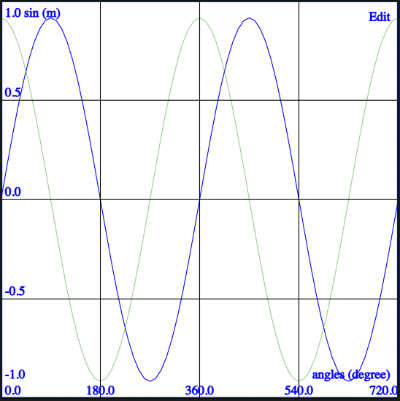
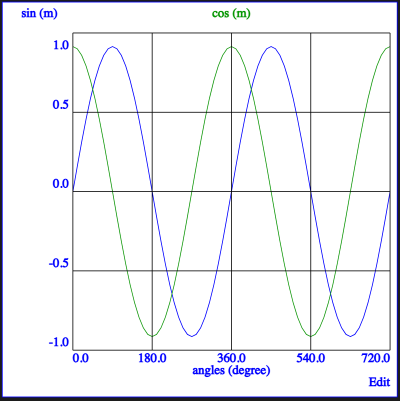
Updates to graph help

diff --git a/help/graph.html b/help/graph.html
@@ -60,10 +60,9 @@
 					together they would represent the 100 coordinate pairs of the points to be plotted.
 				</p>
 				<p>
-					When a new graph is created or a graph icon on the diagram is tapped, the information
-					view described below will be presented.  However if the graph inputs are already
-					defined, the plot will be immediately displayed.  Tap the edit button at the upper
-					right if you wish to modify the inputs.
+					When a new graph is created a view for defining the graph inputs will be displayed.
+					However if the graph inputs are already defined, the actual plot will be displayed.
+					Tap the <b>Edit</b> button at the lower right of plat to return to the input view.
 				</p>
 			</div>
 			<div id="types" class="section">
@@ -109,6 +108,11 @@
 					can have matrices, in which case each matching column will be plotted as a
 					separate line.  The X and Y matrices should have the same size.
 				</p>
+				<p>
+					The <b>X</b> array can be an array of strings in which case the <b>Y</b>
+					value will be plotted against that string value. This is mainly useful for
+					small bar charts.
+				</p>
 			</div>
 			<div id="values3d" class="subsection">
 				<h3>3D Values</h3>
@@ -136,7 +140,7 @@
 			<div id="info" class="section">
 				<h3>Information View</h3>
 				<p>
-					The information view will appear when you first create a new graph tool.
+					The input view will appear when you first create a new graph tool.
 					It allows you to define the data which will be plotted, in the form of
 					arrays for the <b>X</b>, <b>Y</b> and, if applicable, <b>Z</b> values.
 				</p>
@@ -145,11 +149,11 @@
 					to render a plot, then the plot will appear instead of the information view.
 				</p>
 				<p>
-					Tap on the <b>Edit</b> button in the upper right of the plot to see to the
-					information view.
+					Tap on the <b>Edit</b> button in the lower right of the plot to see to the
+					input view.
 				</p>
 				<p>
-					The image below is the information view for a 2D plot where two different
+					The image below is the input view for a 2D plot where two different
 					<b>Y</b> lines are plotted against the same <b>X</b> values (defined in
 					the expression <b>angles</b> as <b>0:72 * 10 degree</b>). The y lines are
 					just the sine and cosine of those X values.
@@ -183,7 +187,7 @@
 						This formula should resolve to the array of values for the axis.
 					</p>
 					<p>
-						On the plot, an axis will normally be labeled with the full formula that generates
+						On the plot, an axis will by default be labeled with the full formula that generates
 						it, but if the formula ends with a comment (i.e. a <b>'</b> character followed by
 						some text), then the label will only consist of the text following the comment
 						character.
@@ -254,9 +258,9 @@
 			<div id="plotview" class="section">
 				<h3>Plot View</h3>
 				<p>
-					When you tap the <b>Plot</b> button on the information view, the data will be
+					When you tap the <b>Plot</b> button on the input view, the data will be
 					presented in a plot view.
-					Tap the <b>Edit</b> button to return to the information view.
+					Tap the <b>Edit</b> button to return to the input view.
 				</p>
 				<p>
 					This view will also automatically be displayed when a graph icon on the diagram
@@ -276,19 +280,18 @@
 					<div id="axes2d" class="subsection">
 						<h3>2D Axes</h3>
 						<p>
-							When a plot has more than one set of <b>X</b> or </b>Y</b> values, the axis labels
-							will only represent one at a time.  If there is more than one set of <b>X</b> values,
-							a tap on the X axis label will switch to the next set or cycle back to the first if
-							the last one is currently displayed.  The <b>X</b> and <b>Y</b> axis labels will
-							change to reflect the new set.
-						</p>
-						<p>	
-							When the current <b>X</b> axis has more than one <b>Y</b> value, tapping on any Y
-							axis label will switch the <b>Y</b> axis labels to the values of the next Y line.
+							Diffenet traces are plotted in different colours and at the top of the
+							plot is a legend of the <b>Y</b> titles in the matching color.
 						</p>
 						<p>
-							The colour of the <b>Y</b> axis labels will always match the colour of the plotted
-							values that they represent and those will be bolder than other curves.
+							While ideally all X-Y lines will have the same axis values, there may be
+							times when you choose to have different values. Tapping on a legend value
+							will switch the axis values to correspond with that trace's minimum and
+							maximum setting and change the axis label colours to match the trace.
+						</p>
+						<p>
+							In addition all the other traces will be faded a bit to make the selected
+							one stand out. Tapping on the selected legend again will remove this dimming.
 						</p>
 					</div>
 					<div id="zoom2d" class="subsection">
@@ -306,20 +309,20 @@
 						<p>
 							The axis labels will adjust their values appropriately.
 						</p>
+						<p>
+							A long press on the plot will reset the zoom to its default value.
+						</p>
 					</div>
 					<div id="pan2d" class="subsection">
 						<h3>2D Panning</h3>
 						<p>
 							Simply drag the graph around to pan it back and forth and up and down.
 						</p>
-						<p>
-							The axis labels will adjust their values appropriately.
-						</p>
 					</div>
 					<div id="coord2d" class="subsection">
 						<h3>2D Coordinates</h3>
 						<p>
-							Tapping on the graph, away from the axis select zones, will show the tap position
+							Tapping on the graph, away from the legend, will show the tap position
 							coordinates of the currently selected curve at the upper right of the graph.
 						</p>
 					</div>
@@ -328,7 +331,7 @@
 						<p>
 							Tap and hold on the plot for a second and then release to have it return to
 							its original scaling and position. If you do this over the x or y axis, then
-							just that axis will be rescaled and no repositioning will be done.
+							just that axis will be rescaled and repositioned.
 						</p>
 					</div>
 				</div>
